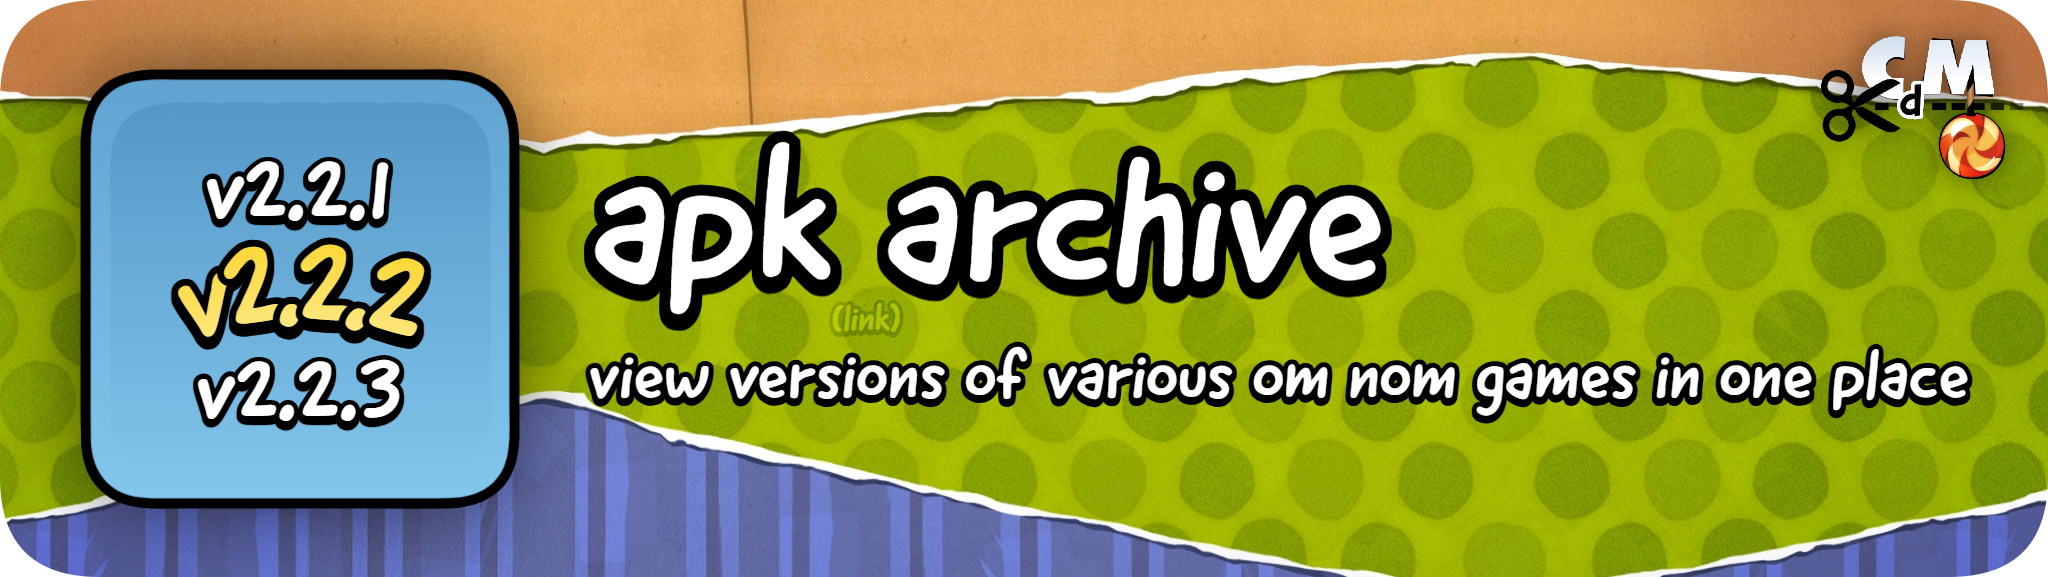
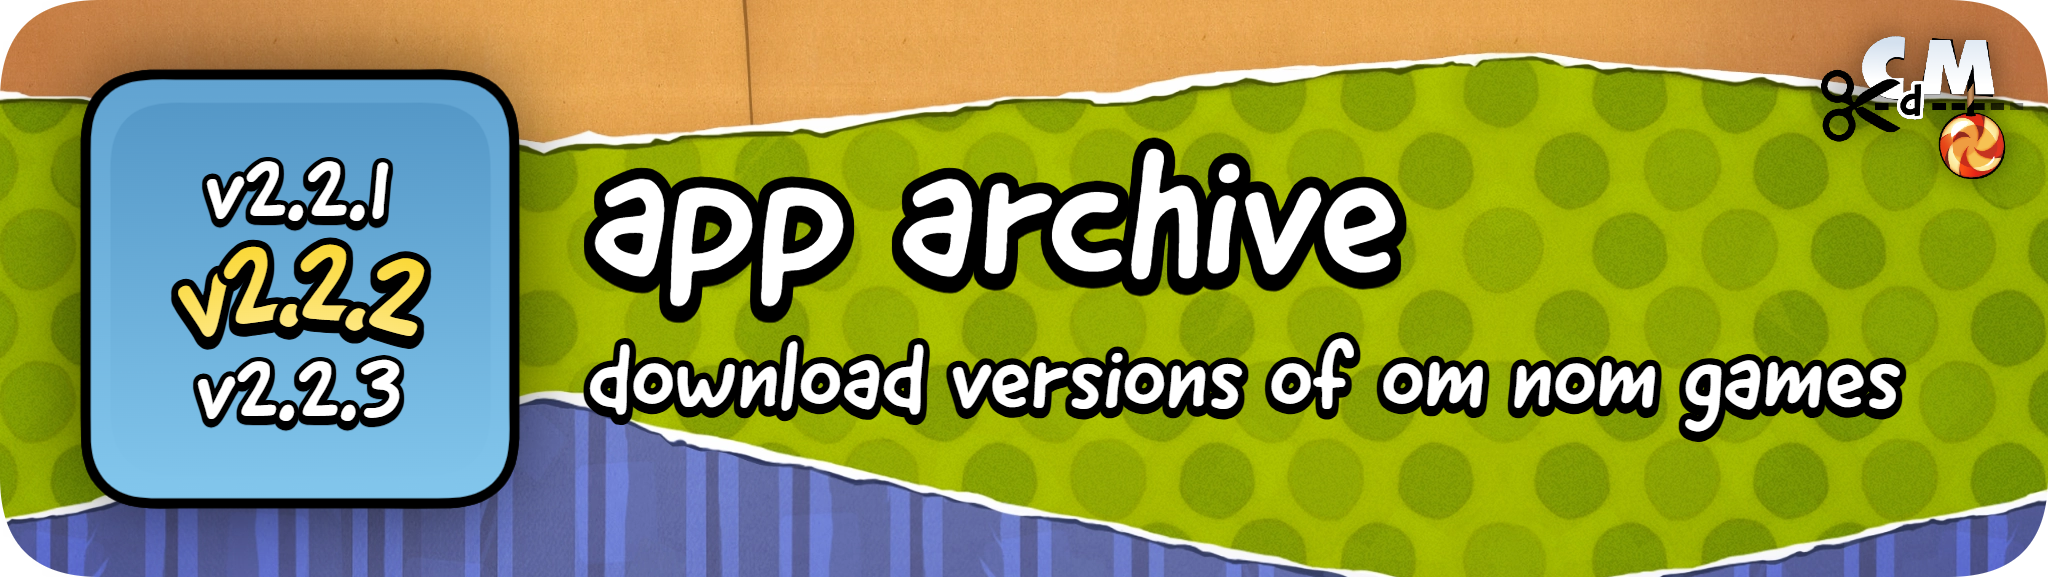
minor changes

Changed region(s): [[0.2812, 0.2184, 0.9688, 0.7799]]

diff --git a/versions/index.html b/versions/index.html
@@ -145,8 +145,8 @@
             white-space: nowrap; pointer-events: none;
         }
         .archivebutton .joinicon {
-            width: 1.6em; height: 1.6em;
-            object-fit: contain;
+            width: 1.25em; height: 1.25em;
+            object-fit: contain; border-radius: 5px;
         }
         .archivebutton:active {
             background-image: url("/assets/images/buttons/lbuttonactive.webp");
@@ -532,26 +532,23 @@
         </summary>
         <section class="infopopup" aria-label="About the apk archive">
             <header class="infoheading">
-                <img src="/assets/images/pageicons/versions.webp" alt="" draggable="false">
+                <img src="/assets/images/pageicons/versions.webp" draggable="false">
                 <div class="infocopy">
                     <h1>app archive</h1>
                     <p class="archivedescription">download versions of om nom games</p>
                 </div>
             </header>
-            <p>DESCRIPTION LALALALA IM SO AHPPY
-                <span class="archivecounts" aria-live="polite">
-                    iOS versions with links: <span class="ioscount">...</span>,
-                    Android versions with links: <span class="androidcount">...</span>,
-                    symbols: <span class="symbolcount">...</span>,
-                    versions without links: <span class="missingcount">...</span>.
-                </span>
-            </p>
+            there are currently <i><span class="androidcount">...</span></i> android versions and <i><span class="ioscount">...</span></i> ios versions available! <br>
+            this collection also contains <span class="symbolcount">...</span> debug symbols, though most aren't complete enough to make reverse engineering easier.
+            versions without links: <span class="missingcount">...</span>.
+
+            none of the game files are stored on this domain. Whether the smaller developers shown actually have rights to Om Nom or not is purely speculative!<br><br>
+            some apps might be slightly modified, if the modifications are known they'll be mentioned in the version number or game description.
             <p class="tiny">
-                None of the game files are stored on this domain. Whether the smaller developers shown actually have rights to Om Nom or not is purely speculative!<br>
-                Some apps might be slightly modified, if the modifications are known they'll be mentioned in the version number or game description.
+                
             </p>
             <a class="archivebutton clickable" href="https://example.com" target="_blank" rel="noopener">
-                <span><img class="joinicon" src="/assets/images/omnom.webp" alt="" draggable="false">Join Cut the Rope Home!</span>
+                <span><img class="joinicon" src="https://cdn.discordapp.com/icons/1112531659078762617/a_76dd36a5ef79da45a0663306c812d61b.webp?animated=true&size=32" draggable="false">Join Cut the Rope Home!</span>
             </a>
         </section>
     </details>

diff --git a/credits.html b/credits.html
@@ -129,7 +129,7 @@
         <h2 class="heading">game version help/archiving</h2>
         <ul class="contributors">
             <li class="entry">saulfabreg</li>
-            <li class="entry">jul mik</li>
+            <li class="entry">jul.mik</li>
             <li class="entry">sami9999999999</li>
             <li class="entry">dragonland3030</li>
             <li class="entry">propplayer</li>
